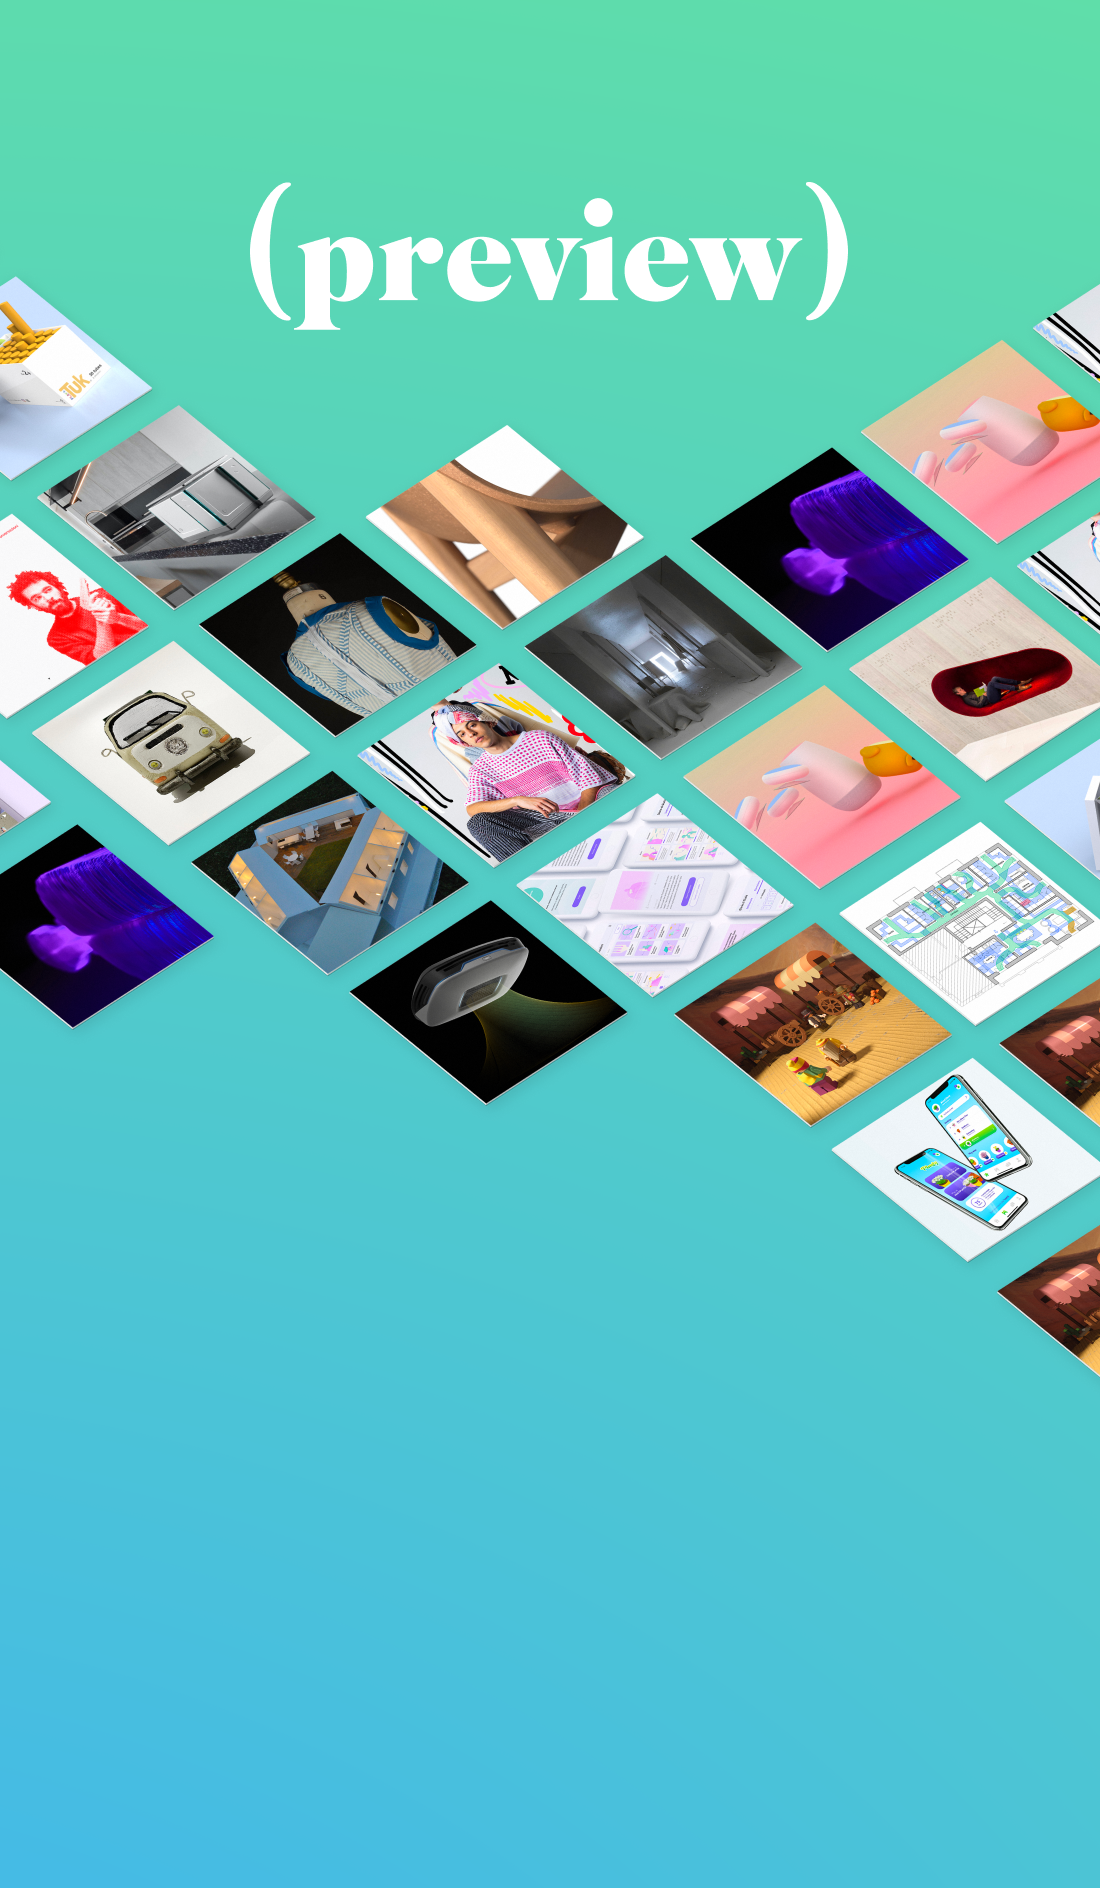
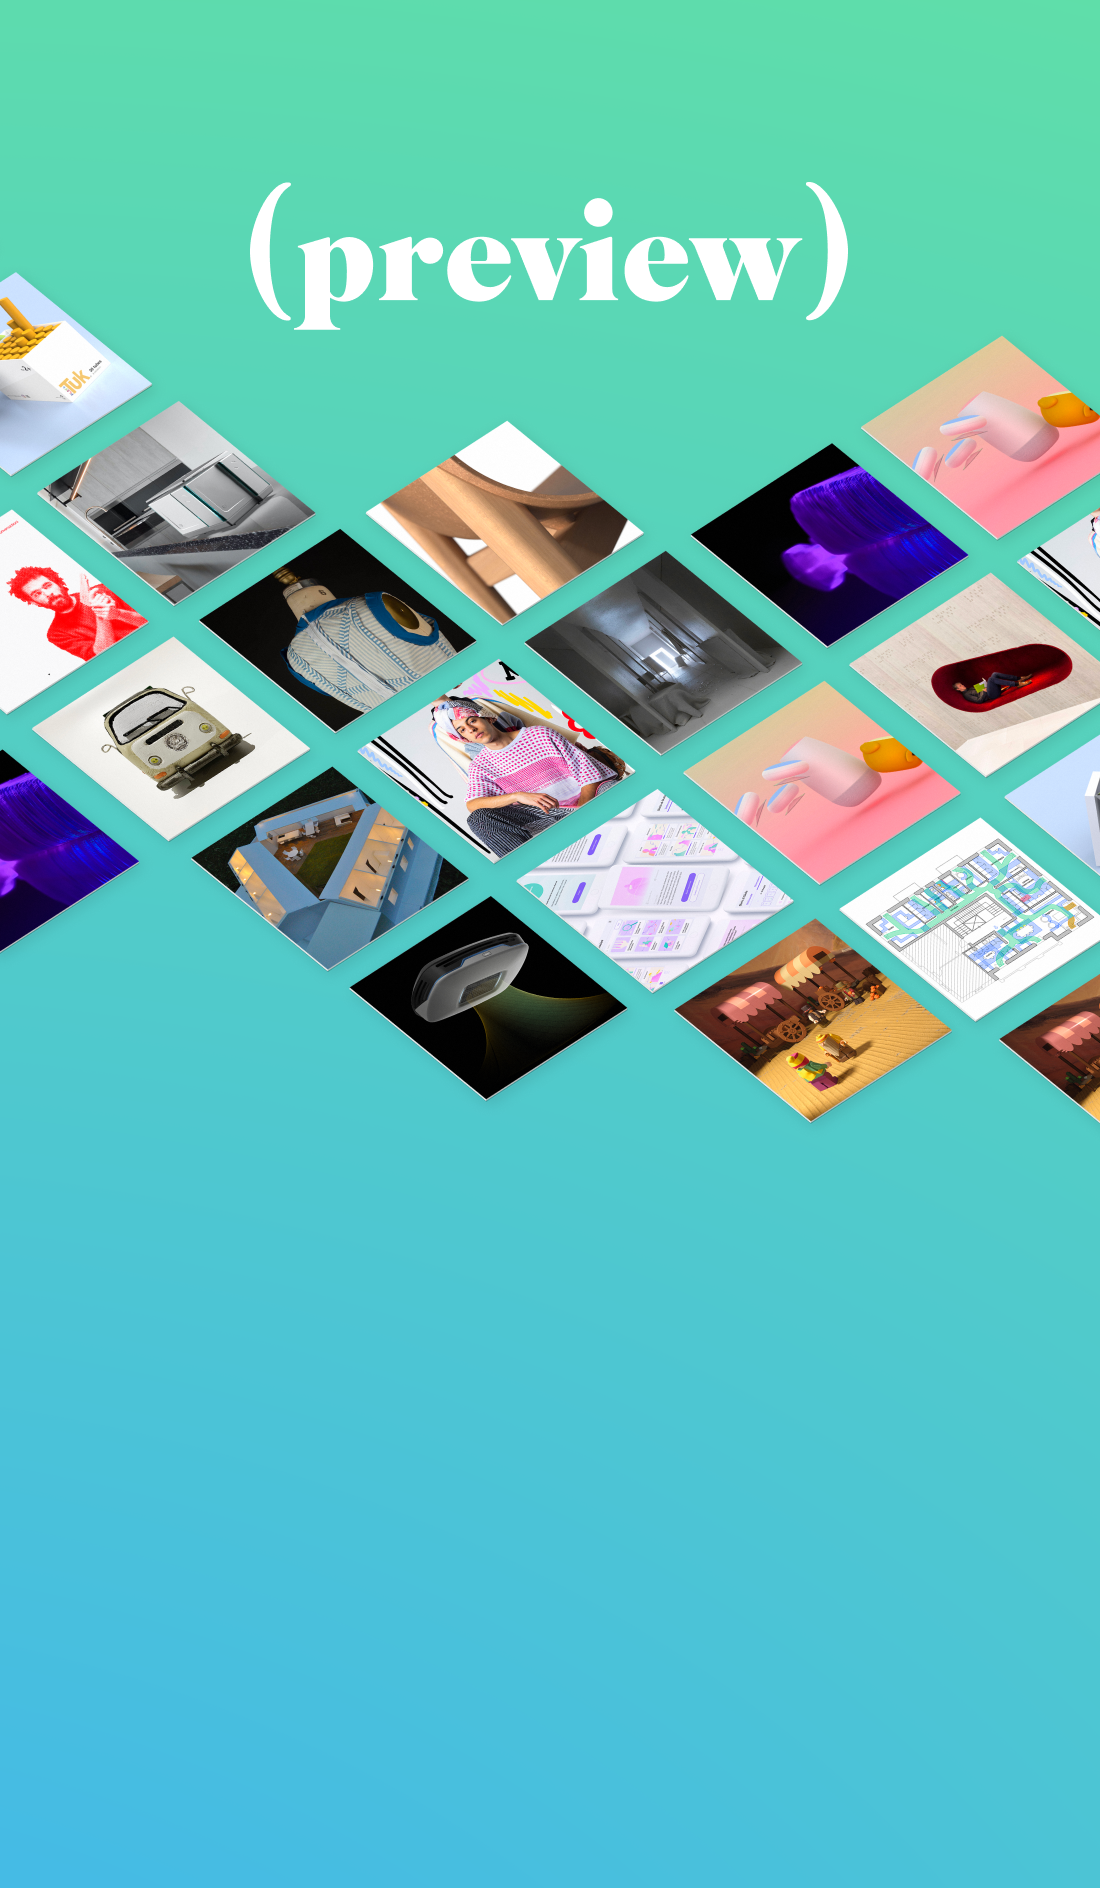
cards index

Changed region(s): [[0.0, 0.125, 1.0, 0.75]]

diff --git a/components/Portfolio-Grid.vue b/components/Portfolio-Grid.vue
@@ -19,6 +19,11 @@
           v-bind="projects.disruptive"
         />
 
+        <PortfolioCard
+          v-bind="projects.carachioggia"
+        />
+
+
       </b-col>
 
       <b-col cols="12" md="6" lg="4">
@@ -33,6 +38,10 @@
           v-bind="projects.itback"
         />
 
+        <PortfolioCard
+          v-bind="projects.quattriny"
+        />
+
       </b-col>
 
       <b-col cols="12" md="6" lg="4">
@@ -44,7 +53,12 @@
 
         <PortfolioCard
           :currentCategory="currentCategory"
-          v-bind="projects.disruptive"
+          v-bind="projects.carachioggia"
+        />
+
+        <PortfolioCard
+          :currentCategory="currentCategory"
+          v-bind="projects.around"
         />
 
       </b-col>
@@ -135,43 +149,46 @@ export default {
           projectname: 'Referto Mag',
         },
 
-        cbct: {
-          title: 'cbct',
-          thumbnail: '/images/cards/cbct.png',
+        carachioggia: {
+          title: 'carachioggia',
+          thumbnail: '/images/cards/carachioggia.png',
           mobileThumbnail: '/images/cards/cbct_sm.png',
-          bio: 'Design-centered digital exhibition on Sergio Marchionne and his reconstruction story.',
+          bio: 'Design-centered digital exhibition on Sergio Marchionne',
           category: ['coding'],
-          class: 'column card-small biodark',
+          class: 'column card-extralarge biowhite',
           to: "it-back",
           pill1: 'Branding',
           pill2: 'Coding',
           pill3: 'UX-UI',
+          projectname: 'Cara Chioggia ti scrivo'
         },
 
-        hively: {
-          title: 'hively',
-          thumbnail: '/images/cards/hively.png',
+        quattriny: {
+          title: 'quattriny',
+          thumbnail: '/images/cards/quattriny.png',
           mobileThumbnail: '/images/cards/hively_sm.png',
-          bio: 'Design-centered digital exhibition on Sergio Marchionne and his reconstruction story.',
+          bio: 'Design-centered digital exhibition on Sergio Marchionne',
           category: ['branding', 'graphic'],
           class: 'column card-small biowhite',
           to: "it-back",
           pill1: 'Branding',
           pill2: 'Coding',
           pill3: 'UX-UI',
+          projectname: 'Quattriny'
         },
 
-        bellascusa: {
-          title: 'bellascusa',
-          thumbnail: '/images/cards/bellascusa.png',
+        around: {
+          title: 'around',
+          thumbnail: '/images/cards/around.png',
           mobileThumbnail: '/images/cards/bellascusa_sm.png',
-          bio: 'Design-centered digital exhibition on Sergio Marchionne and his reconstruction story.',
+          bio: 'Design-centered digital exhibition on Sergio Marchionne',
           category: ['branding', 'graphic'],
           class: 'column card-small biowhite',
           to: "it-back",
           pill1: 'Branding',
           pill2: 'Coding',
           pill3: 'UX-UI',
+          projectname: 'ARound'
         },
 
         aura: {

diff --git a/components/Portfolio-Card.vue b/components/Portfolio-Card.vue
@@ -1,6 +1,6 @@
 <template>
 
-    <div class="bg-primary projectcard" >
+    <div class=" projectcard" >
 
       <NuxtLink :to="to">
 
@@ -81,20 +81,20 @@ h6{
     position: absolute;
     background-position: center;
     background-repeat: no-repeat;
-    background-size: cover;
     inset: 0;
     height: 100%;
-    transition: transform 0.5s ease-in-out; /* Aggiunto qui */
+    transform-origin: center;
+    transform: scale(1.01);
+    transition: transform 0.5s ease-in-out;
 
     img {
-      width: 100%;
       height: 100%;
       object-fit: cover;
     }
   }
 
   &:hover .card-background {
-    transform: scale(1.03); /* Aggiunto qui */
+    transform: scale(1.05); /* Aggiunto qui */
   }
 }
 
